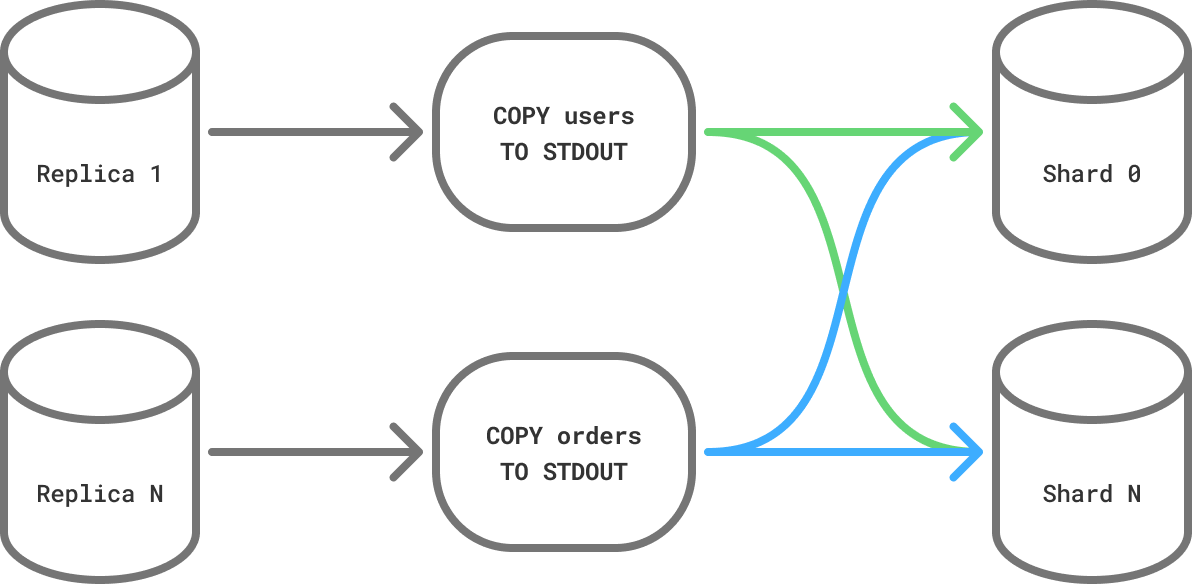
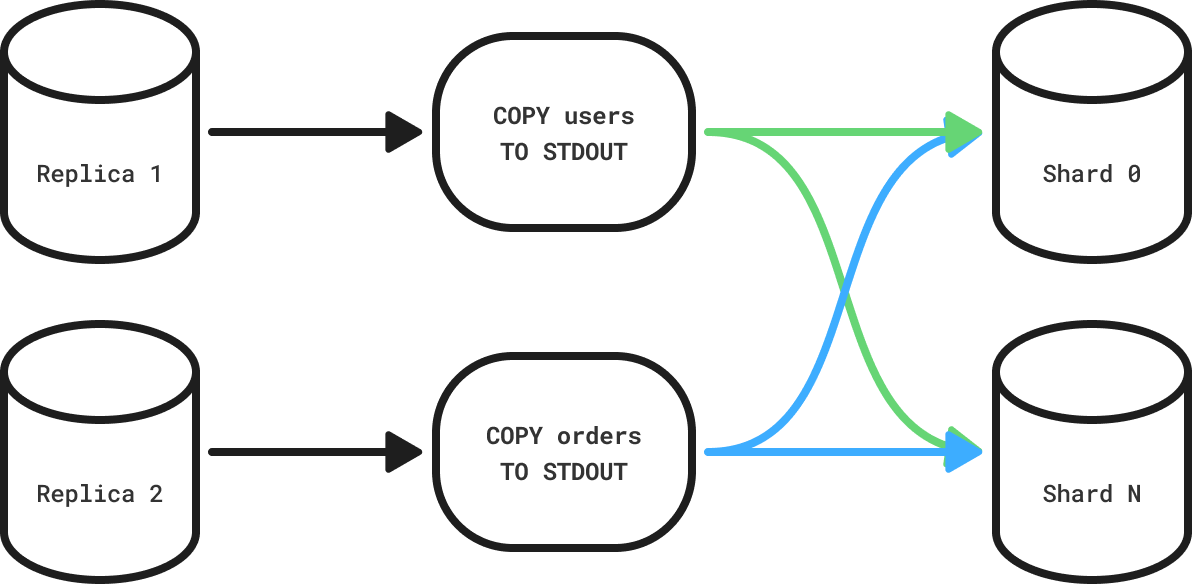
fix: more images theme-aware

diff --git a/docs/features/sharding/resharding/move.md b/docs/features/sharding/resharding/move.md
@@ -77,7 +77,7 @@ The whole process happens entirely online, and doesn't require database reboots 
 PostgreSQL replication works on the basis of slots. They are virtual annotations in the Write-Ahead Log which prevent Postgres from recycling WAL segments and deleting the history of changes made to the database.
 
 <center>
-    <img src="/images/resharding-slot-2.png" width="75%" alt="Replication slot" />
+    <img src="/images/resharding-slot-2.png" width="75%" alt="Replication slot" class="theme-aware-image" />
 </center>
 
 With logical replication, any client that speaks the protocol (like PgDog) can connect to the server and stream changes made to the database, starting at the position marked by the slot.
@@ -98,7 +98,7 @@ Tables are copied from source to destination database using standard PostgreSQL 
 If you are running PostgreSQL 16 or later and have configured replicas on the source database, PgDog can copy multiple tables in parallel, dramatically accelerating this process.
 
 <center>
-    <img src="/images/resharding-16x.png" width="75%" alt="Parallel table copy" />
+    <img src="/images/resharding-16x.png" width="75%" alt="Parallel table copy" class="theme-aware-image" />
 </center>
 
 To set this up, make sure to add your read replicas to [`pgdog.toml`](../../../configuration/pgdog.toml/databases.md), for example:

diff --git a/docs/features/sharding/resharding/index.md b/docs/features/sharding/resharding/index.md
@@ -13,7 +13,8 @@ Resharding changes the number of shards in an existing database cluster in order
 To make this an online process, with zero downtime or data loss, PgDog hooks into the logical replication protocol used by PostgreSQL and reroutes messages between nodes to create and update rows in real-time.
 
 <center style="margin-top: 40px;">
-  <img src="/images/resharding-arch-1.png" width="80%" height="auto" alt="Mirroring">
+  <img src="/images/resharding-arch-1.png" width="80%" height="auto" alt="Resharding architecture" class="theme-aware-image">
+  <p>Resharding architecture</p>
 </center>
 
 ## Resharding process